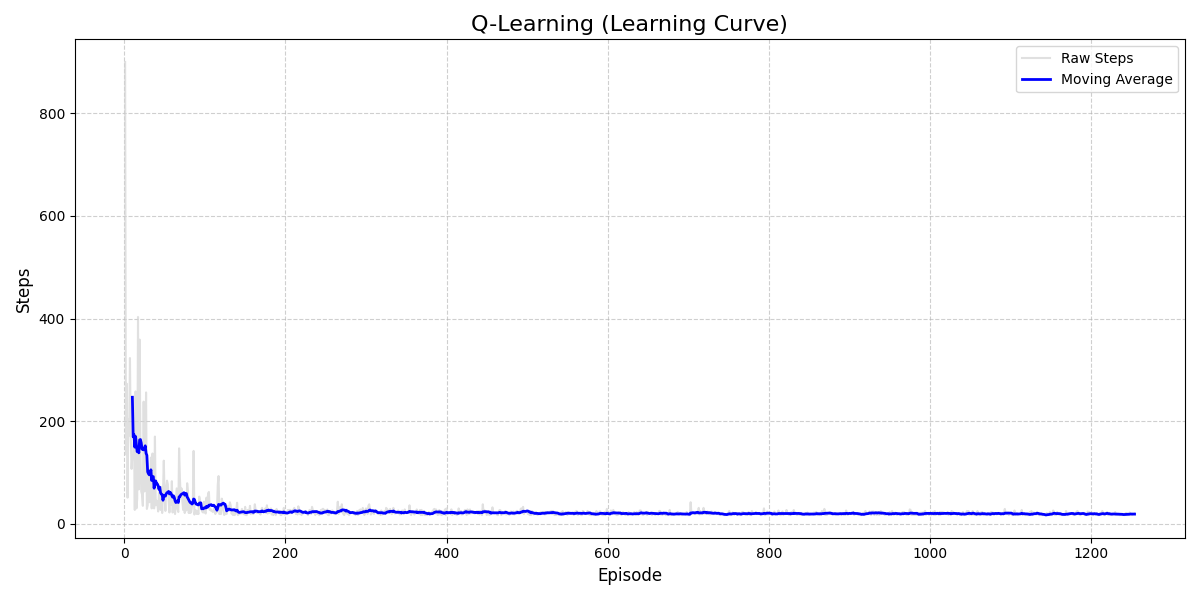
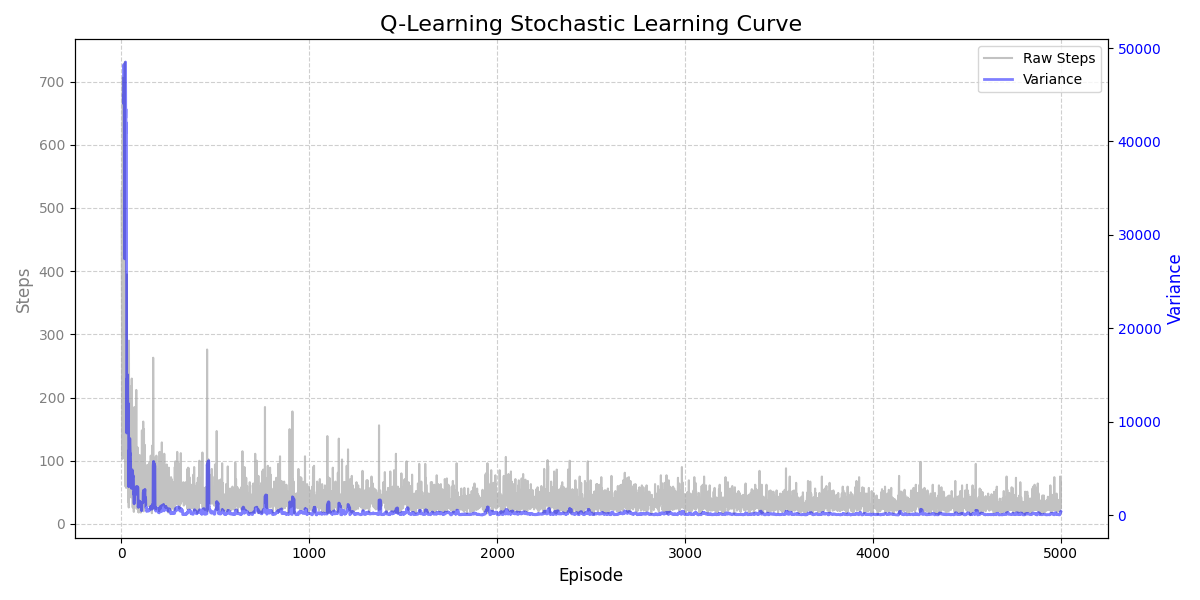
Refactor environment to use stochastic transitions with Dirichlet distribution

diff --git a/plot_graph.py b/plot_graph.py
@@ -5,7 +5,7 @@ import csv
 def plot_learning_curve(data_file="graph_data.txt"):
     episodes = []
     steps = []
-    moving_averages = []
+    variances = []
 
     # Read data file
     try:
@@ -18,37 +18,46 @@ def plot_learning_curve(data_file="graph_data.txt"):
                     episodes.append(int(row[0]))
                     steps.append(int(row[1]))
 
-                    # If moving average is not empty
+                    # If variance is not empty
                     if len(row) >= 3 and row[2] != "":
-                        moving_averages.append(float(row[2]))
+                        variances.append(float(row[2]))
                     else:
-                        moving_averages.append(None)  # Pending
+                        variances.append(None)  # Pending
 
     except FileNotFoundError:
-        print(f"Error: File '{data_file}' doesn't exist.")
+        print(f"Error: '{data_file}' not found.")
         return
 
     # Plot the graph
-    plt.figure(figsize=(12, 6))
+    fig, ax1 = plt.subplots(figsize=(12, 6))
 
-    # Plot raw steps
-    plt.plot(episodes, steps, label='Raw Steps', color='lightgray', alpha=0.7)
+    # Primary Axis: Raw Steps
+    ax1.plot(episodes, steps, label='Raw Steps', color='darkgray', alpha=0.7)
+    ax1.set_xlabel("Episode", fontsize=12)
+    ax1.set_ylabel("Steps", fontsize=12, color='gray')
+    ax1.tick_params(axis='y', labelcolor='gray')
 
-    # Plot Moving Average
-    valid_episodes = [e for e, m in zip(episodes, moving_averages) if m is not None]
-    valid_moving_averages = [m for m in moving_averages if m is not None]
+    # Secondary Axis: Variance
+    ax2 = ax1.twinx()
 
-    plt.plot(valid_episodes, valid_moving_averages, label='Moving Average', color='blue',linewidth=2)
+    valid_episodes = [e for e, v in zip(episodes, variances) if v is not None]
+    valid_variances = [v for v in variances if v is not None]
 
-    plt.title("Q-Learning (Learning Curve)", fontsize=16)
-    plt.xlabel("Episode", fontsize=12)
-    plt.ylabel("Steps", fontsize=12)
+    ax2.plot(valid_episodes, valid_variances, label='Variance', color='blue', linewidth=2, alpha=0.5)
+    ax2.set_ylabel("Variance", fontsize=12, color='blue')
+    ax2.tick_params(axis='y', labelcolor='blue',)
 
-    plt.legend(loc="upper right")
-    plt.grid(True, linestyle='--', alpha=0.6)
+    plt.title("Q-Learning Stochastic Learning Curve", fontsize=16)
+
+    lines_1, labels_1 = ax1.get_legend_handles_labels()
+    lines_2, labels_2 = ax2.get_legend_handles_labels()
+    ax1.legend(lines_1 + lines_2, labels_1 + labels_2, loc="upper right")
+    ax1.grid(True, linestyle='--', alpha=0.6)
 
     plt.tight_layout()
+    plt.savefig("learning_curve.png")
     plt.show()
+
 
 if __name__ == "__main__":
     plot_learning_curve()

diff --git a/environment.py b/environment.py
@@ -1,3 +1,6 @@
+import numpy as np
+
+
 class DeliveryEnvironment:
     def __init__(self):
         self.grid_size = 10
@@ -7,6 +10,19 @@ class DeliveryEnvironment:
         self.truck_pos = self.start_pos
         self.has_load = False
         self.action_space = [0, 1, 2, 3] # Up, Down, Left, Right
+        self.transition_probs = {}
+        self.zone_center = (8,7)
+
+        for x in range(self.grid_size):
+            for y in range(self.grid_size):
+                dist = abs(self.zone_center[0] - x) + abs(self.zone_center[1] - y)
+                for i in range(len(self.action_space)):
+                    alphas = np.ones(9)
+                    a = 1.5 * dist + 4
+                    alphas[i] = a
+                    probs = np.random.dirichlet(alphas)
+                    self.transition_probs[(x, y, i)] = probs
+
 
     def reset(self):
         self.truck_pos = self.start_pos
@@ -15,10 +31,14 @@ class DeliveryEnvironment:
 
     def _get_state(self):
         return (self.truck_pos[0], self.truck_pos[1], int(self.has_load))
+
     def step(self, action):
         x, y = self.truck_pos
         reward = -1
         done = False
+
+        coordinate_probs = self.transition_probs[(x, y, action)]
+        action = np.random.choice(9, p=coordinate_probs)
 
         if action == 0 and x > 0: # up
             x -= 1
@@ -28,6 +48,20 @@ class DeliveryEnvironment:
             y -= 1
         elif action == 3 and y < self.grid_size - 1: # right
             y += 1
+        elif action == 4 and x > 0 and y < self.grid_size - 1: # up-right
+            x -= 1
+            y += 1
+        elif action == 5 and x < self.grid_size - 1 and y < self.grid_size - 1: # down-right
+            x += 1
+            y += 1
+        elif action == 6 and x > 0 and y > 0: # up-left
+            x -= 1
+            y -= 1
+        elif action == 7 and x < self.grid_size - 1 and y > 0: # down-left
+            x += 1
+            y -= 1
+        elif action == 8: # stay
+            pass
         else:
             reward = -10
 

diff --git a/agent.py b/agent.py
@@ -16,7 +16,7 @@ class QLearningAgent:
 
         self.alpha = 0.1
         self.gamma = 0.95
-        self.q_table = np.zeros((200, 4))
+        self.q_table = np.zeros((200, 4)) # 10 * 10 = 100 (grid size) 100 * 2 = 200 load-unload
 
     def get_state_index(self, state):
         x, y, has_load = state
@@ -67,7 +67,8 @@ class QLearningAgent:
 
                     state_idx = next_state_idx
                     step_count += 1
-
+                    if step_count > 1000:
+                        break
 
                 if self.epsilon > self.min_epsilon:
                     self.epsilon *= self.epsilon_decay

diff --git a/main.py b/main.py
@@ -18,7 +18,7 @@ def main():
 
     agent.train()
 
-    agent.test_and_save_solution(filename="episode_steps.txt")
+    agent.test_and_save_solution(filename="solution_path.txt")
 
 
 if __name__ == "__main__":
